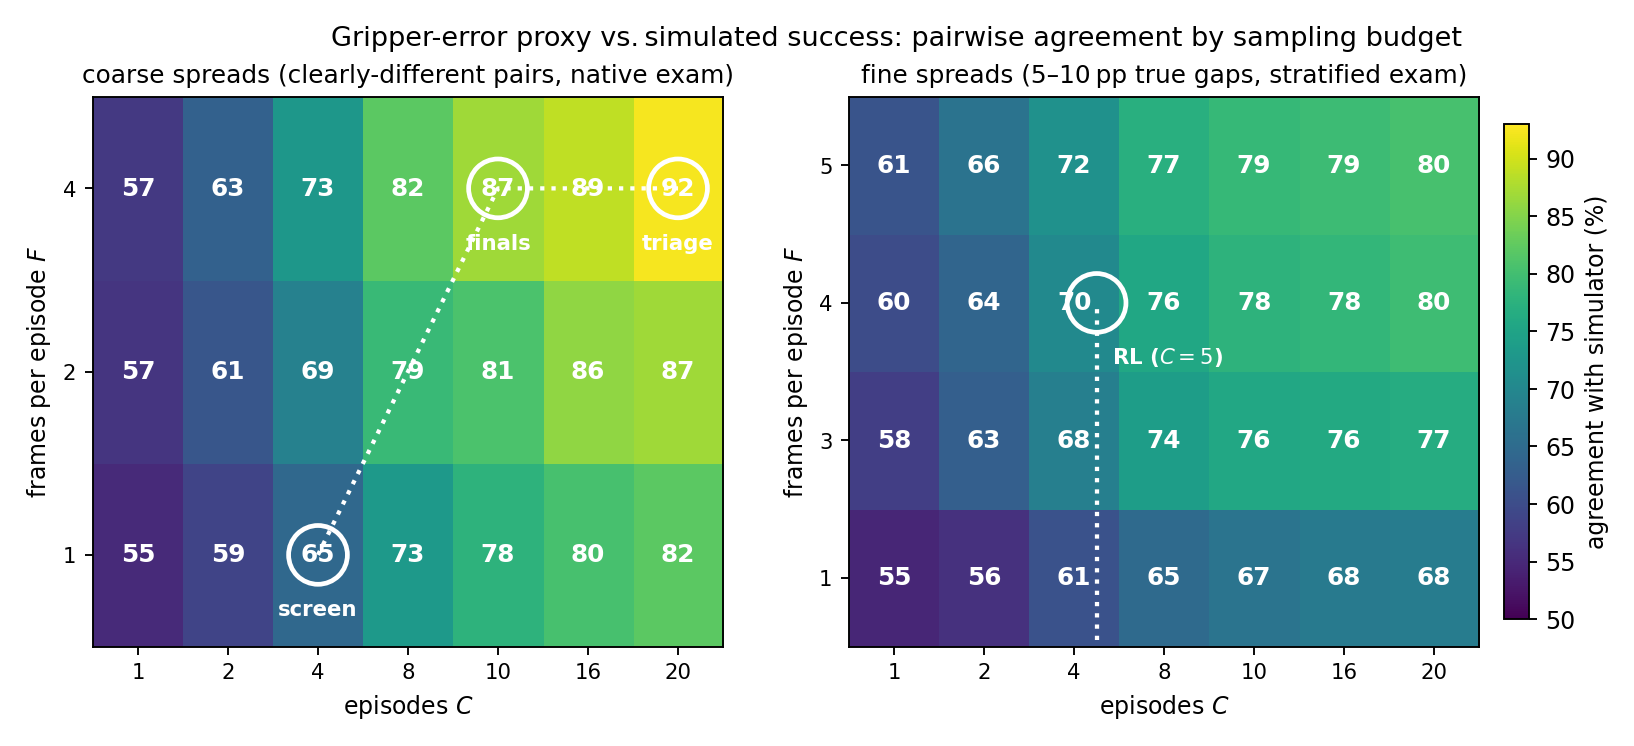
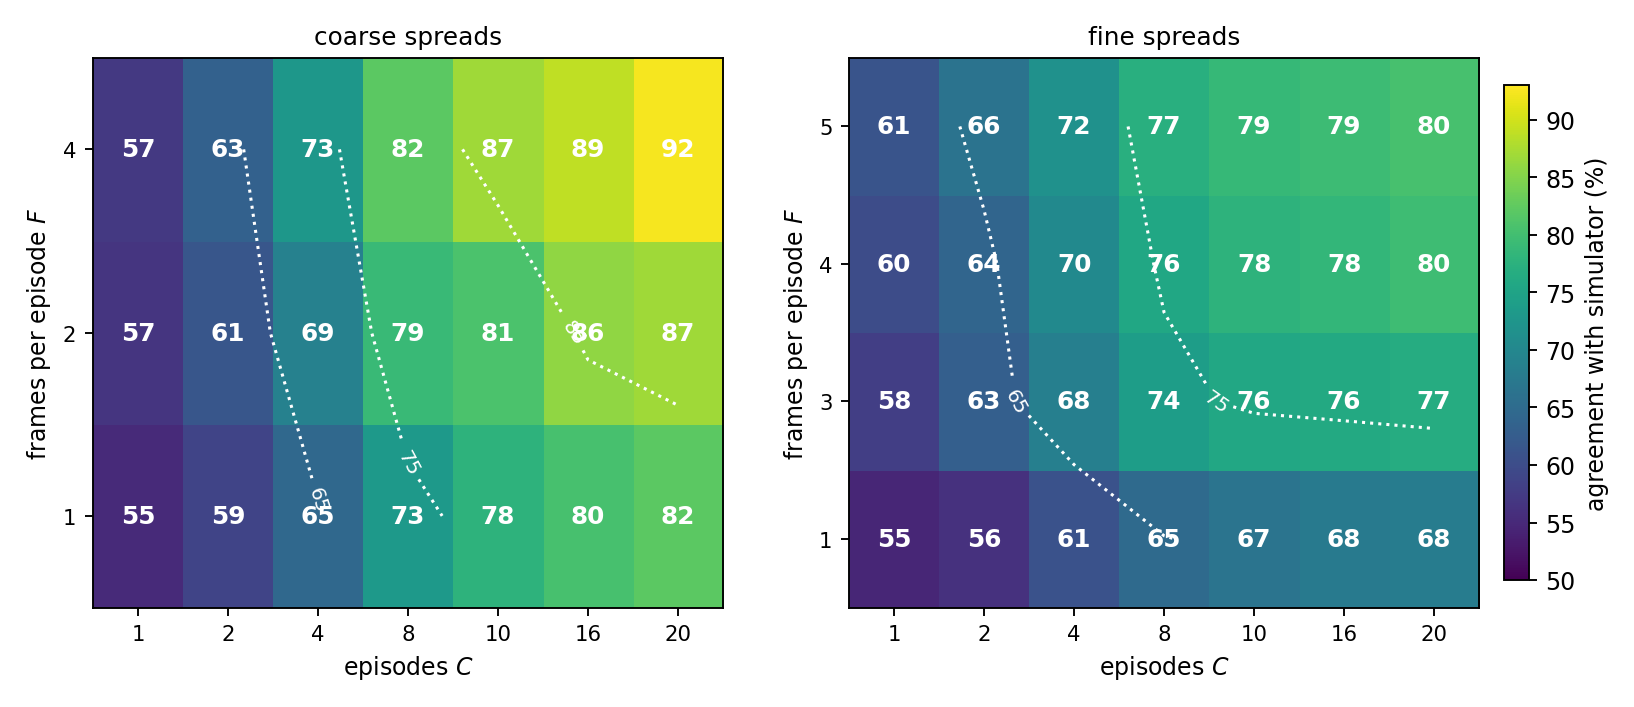
gripper grids figure v2: contour level sets, bare panel titles, caption-ready

diff --git a/scripts/make_reward_grids_figure.py b/scripts/make_reward_grids_figure.py
@@ -20,8 +20,8 @@ FINE = np.array([[fg[f"F{f}_C{c}"]["grip"]["fine_5-10"] for c in FC] for f in FF
 fig, axes = plt.subplots(1, 2, figsize=(12.6, 4.2))
 
 for ax, A, Fs, Cs, title in [
-    (axes[0], COARSE, CF, CC, "coarse spreads (clearly-different pairs, native exam)"),
-    (axes[1], FINE, FF, FC, "fine spreads (5–10 pp true gaps, stratified exam)"),
+    (axes[0], COARSE, CF, CC, "coarse spreads"),
+    (axes[1], FINE, FF, FC, "fine spreads"),
 ]:
     im = ax.imshow(A, origin="lower", cmap="viridis", vmin=50, vmax=93, aspect="auto")
     for fi in range(len(Fs)):
@@ -34,27 +34,14 @@ for ax, A, Fs, Cs, title in [
     ax.set_ylabel("frames per episode $F$", fontsize=10)
     ax.set_title(title, fontsize=10.5)
 
-# operating points, coarse panel: screen (F1,C4) -> finals (F4,C10) -> triage (F4,C20)
-ax = axes[0]
-pts = {"screen": (2, 0), "finals": (4, 2), "triage": (6, 2)}
-xs, ys = zip(*[pts[k] for k in ("screen", "finals", "triage")])
-ax.plot(xs, ys, ls=":", color="white", lw=1.8, zorder=3)
-for name, (x, y) in pts.items():
-    ax.scatter([x], [y], s=620, facecolor="none", edgecolor="white", lw=2.0, zorder=4)
-    ax.annotate(name, (x, y), textcoords="offset points", xytext=(0, -26),
-                ha="center", fontsize=9, color="white", fontweight="bold", zorder=4)
-
-# RL point, fine panel: F=4 row, C=5 (between the C=4 and C=8 columns)
-ax = axes[1]
-x_rl = 2 + (5 - 4) / (8 - 4)   # index-space position of C=5
-ax.plot([x_rl, x_rl], [-0.45, 2], ls=":", color="white", lw=1.8, zorder=3)
-ax.scatter([x_rl], [2], s=620, facecolor="none", edgecolor="white", lw=2.0, zorder=4)
-ax.annotate("RL ($C{=}5$)", (x_rl, 2), textcoords="offset points", xytext=(30, -26),
-            ha="center", fontsize=9, color="white", fontweight="bold", zorder=4)
+# level-set contours: the grids read as a scalar field of agreement
+for ax, A, Fs, Cs in [(axes[0], COARSE, CF, CC), (axes[1], FINE, FF, FC)]:
+    X, Y = np.meshgrid(range(len(Cs)), range(len(Fs)))
+    cs = ax.contour(X, Y, A, levels=[65, 75, 85], colors="white",
+                    linewidths=1.3, linestyles=":")
+    ax.clabel(cs, fmt="%d", fontsize=8.5, colors="white")
 
 cb = fig.colorbar(im, ax=axes, shrink=0.9, pad=0.015)
 cb.set_label("agreement with simulator (%)", fontsize=10)
-fig.suptitle("Gripper-error proxy vs. simulated success: pairwise agreement by sampling budget",
-             fontsize=11.5)
 fig.savefig("results/charts/reward_grids_gripper.png", dpi=170, bbox_inches="tight", pad_inches=0.15)
 print("chart -> results/charts/reward_grids_gripper.png")
